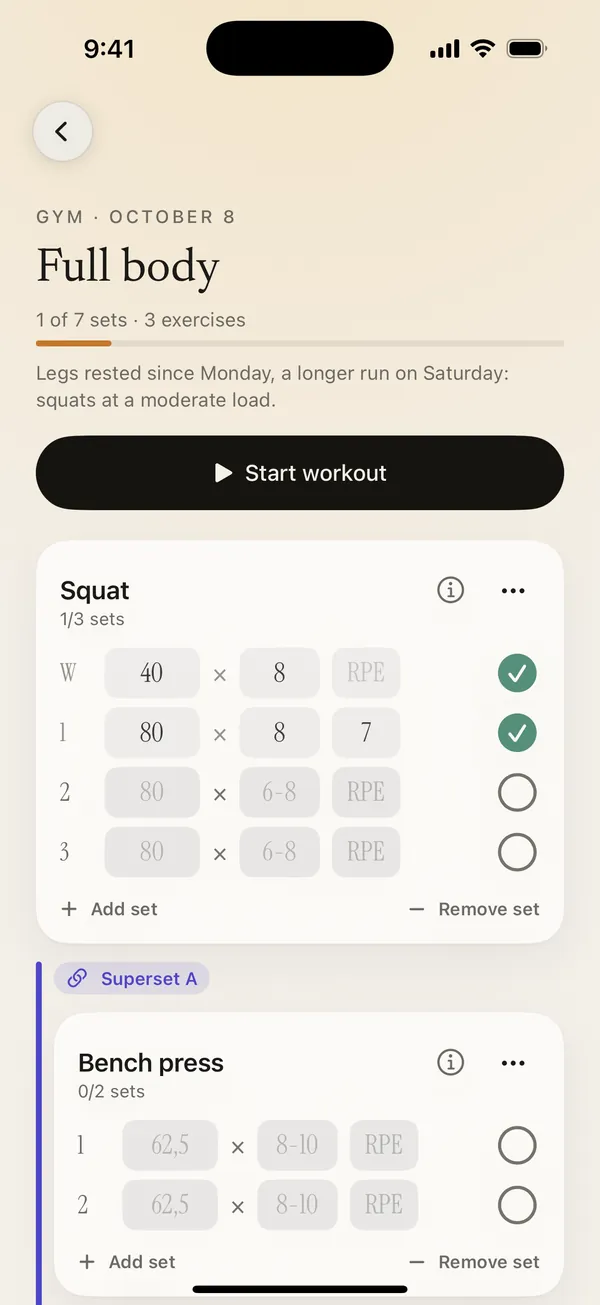
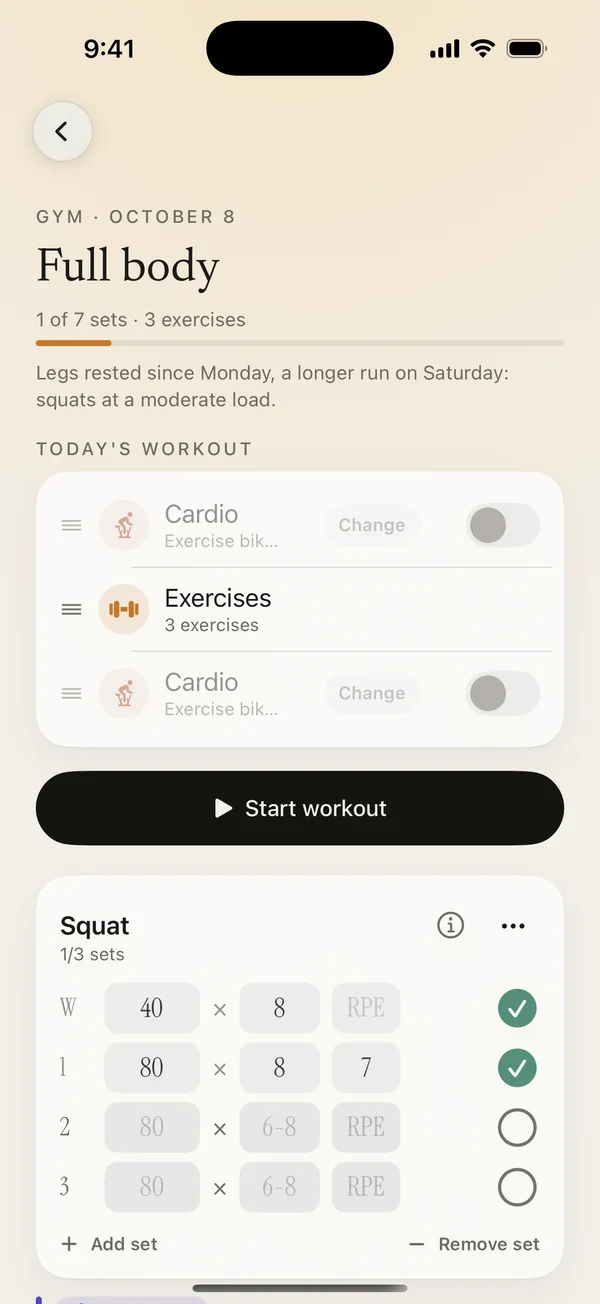
Site gym screenshot retaken; CI artifacts named Aurin
The overview's gym phone shows the fixed day parts. The iOS workflow's
artifacts are now Aurin-screens, Aurin-ios and Aurin-unsigned.ipa instead of
the old Loadwise names.

Claude-Session: https://claude.ai/code/session_01FR1qPjRNRxWeNLwhyB6Ncx

diff --git a/CLAUDE.md b/CLAUDE.md
@@ -9,7 +9,7 @@ availability) updates the overview in the same pull request. The site is in Engl
 
 - Each section of the overview matches a part of the app. Its phones show the app's own screens: the
   English, light-mode screenshots of the sample day that CI takes (`ios-native.yml`, `screens/site/` in
-  the Loadwise-native-screens artifact), saved as `public/site/app/*.webp`. The hero shows Today; the
+  the Aurin-screens artifact), saved as `public/site/app/*.webp`. The hero shows Today; the
   story below it has one chapter per app area, and its phone shows that area's screen. When a screen
   they show changes, take them again; the numbers around the hero phone follow the sample day
   (`DemoData.swift`, `tests/site-pages.test.mjs`).
